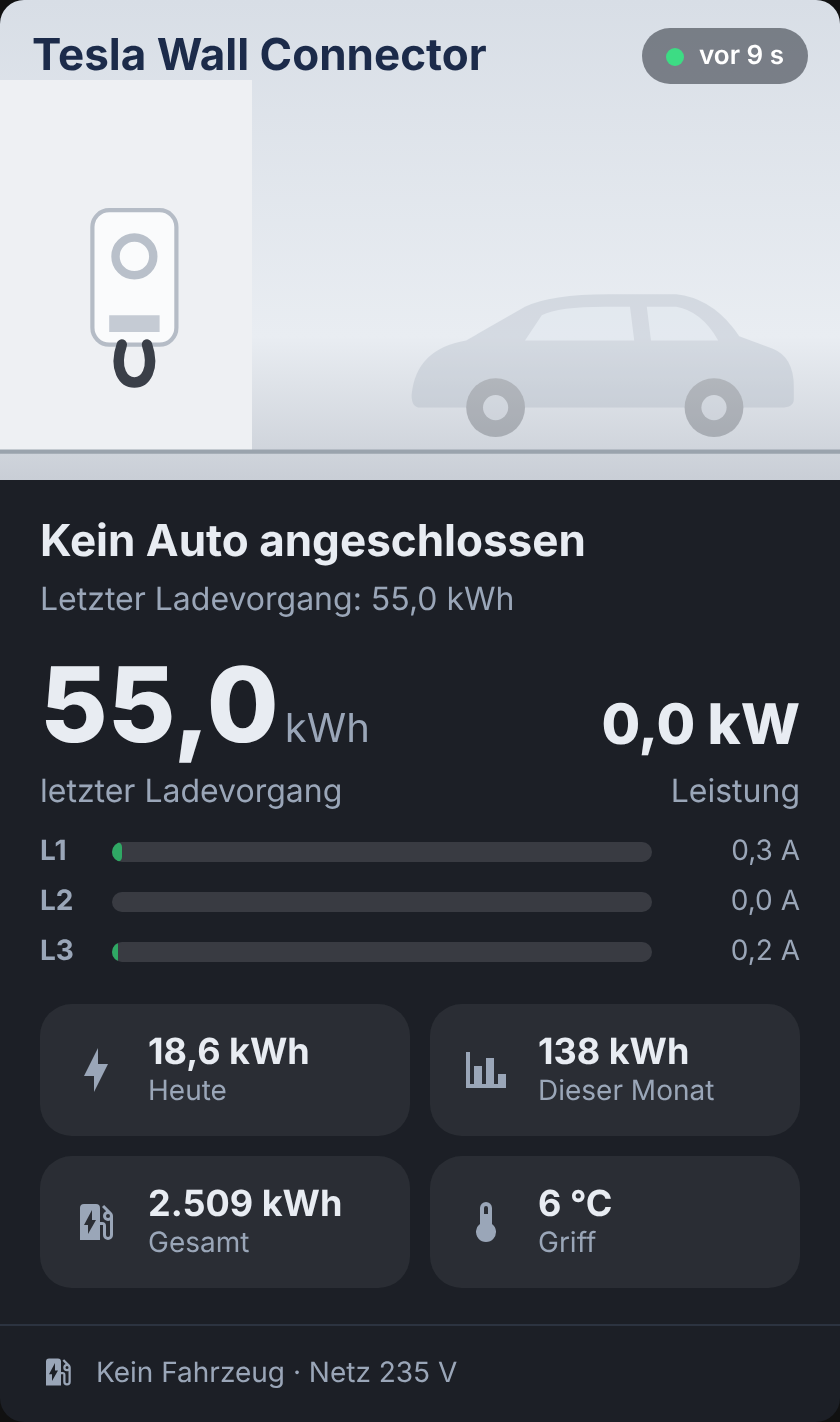
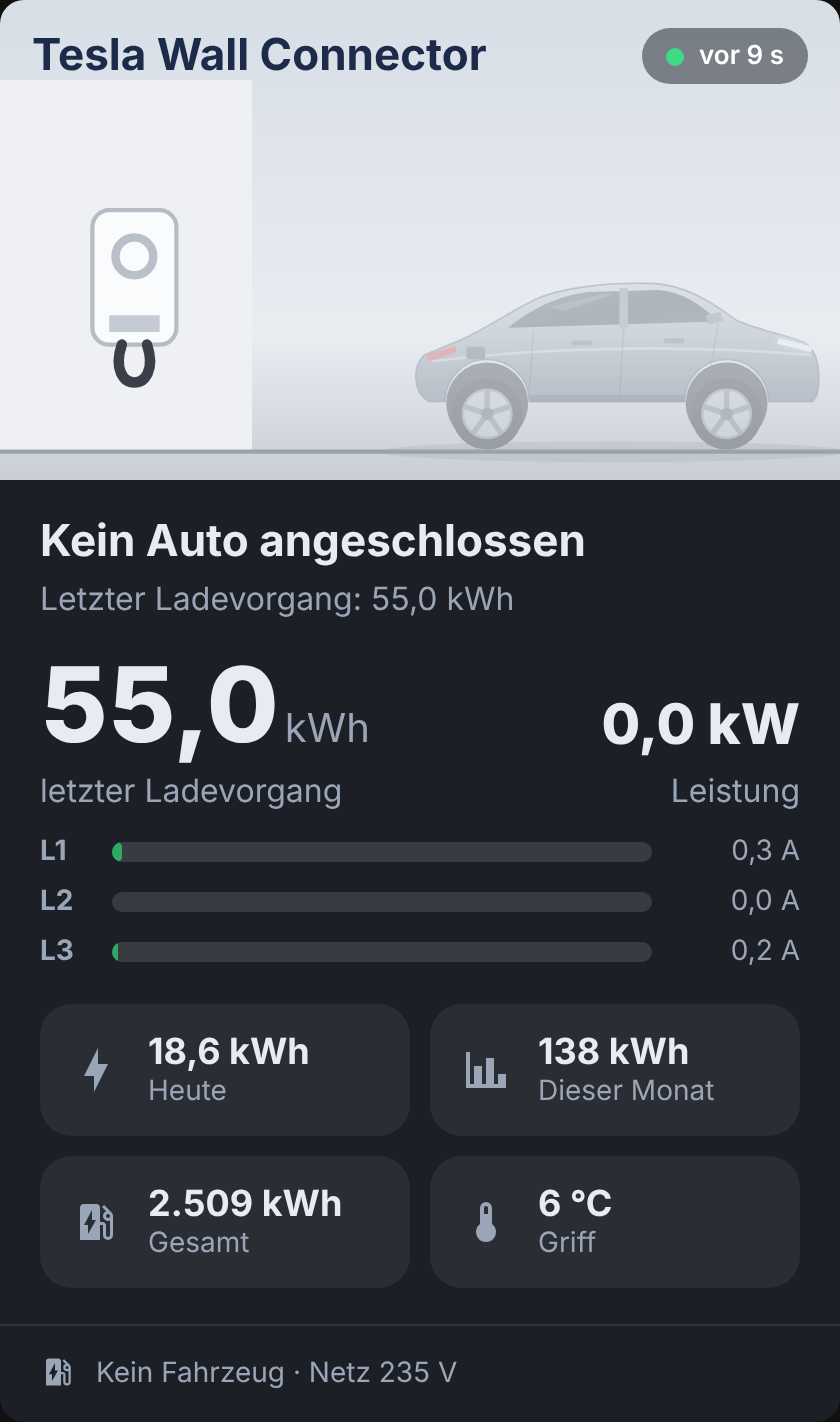
0.2.1: realistischeres Auto in der Ladestations-Karte

Changed region(s): [[0.4952, 0.2166, 0.9905, 0.3404], [0.619, 0.1857, 0.8357, 0.2475]]

diff --git a/dist/ha-cards.js b/dist/ha-cards.js
@@ -13,7 +13,7 @@
  * MIT-Lizenz, Nutzung auf eigene Verantwortung.
  */
 
-const HC_VERSION = "0.2.0";
+const HC_VERSION = "0.2.1";
 
 // Material-Design-Icons (Apache 2.0, Pictogrammers) als Inline-SVG
 const HC_ICONS = {
@@ -975,19 +975,49 @@ class HcWallboxCard extends HcBaseCard {
           <circle class="ring ${led}" cx="64" cy="84" r="9"/>
           <path class="holster" d="M52 112 h24 v8 h-24z"/>
           ${connected ? `
-            <path class="cable" d="M64 126 C 64 165, 150 172, 214 140"/>
-            <path class="flow ${charging ? "on" : ""}" d="M64 126 C 64 165, 150 172, 214 140" style="--c:#3ddc84"/>` : `
+            <path class="cable" d="M64 126 C 64 170, 170 178, 226 131"/>
+            <path class="flow ${charging ? "on" : ""}" d="M64 126 C 64 170, 170 178, 226 131" style="--c:#3ddc84"/>` : `
             <path class="cable" d="M58 126 C 50 150, 78 150, 70 126"/>`}
-          <g class="car ${connected ? "" : "away"}">
-            <path class="body" d="M196 150 Q198 128 222 124 L250 108 Q262 102 290 102 L322 102 Q340 104 352 122 L368 128 Q378 132 378 146 L378 152 Q378 156 372 156 L200 156 Q196 156 196 150Z"/>
-            <path class="glass" d="M258 112 Q266 108 288 108 L300 108 L302 124 L250 124Z M308 108 L322 108 Q334 110 342 124 L310 124Z"/>
-            <circle class="wheel" cx="236" cy="156" r="14"/><circle class="hub" cx="236" cy="156" r="6"/>
-            <circle class="wheel" cx="340" cy="156" r="14"/><circle class="hub" cx="340" cy="156" r="6"/>
-            ${charging ? `<path class="bolt" d="M286 132 l-8 12 h7 l-3 10 10 -14 h-7 l3 -8z"/>` : ""}
-          </g>
+          ${this._car(connected, charging)}
           <line class="ground" x1="0" y1="177" x2="400" y2="177"/>
         </svg>
       </div>`;
+  }
+
+  // Eigene, neutrale Elektro-Limousine mit Fließheck (Seitenansicht, Front rechts)
+  _car(connected, charging) {
+    const wheel = (cx) => {
+      const spokes = [0, 72, 144, 216, 288].map((a) =>
+        `<line class="spoke" x1="${cx}" y1="159" x2="${cx}" y2="148.5" transform="rotate(${a} ${cx} 159)"/>`).join("");
+      return `<circle class="tire" cx="${cx}" cy="159" r="17"/><circle class="rim" cx="${cx}" cy="159" r="11.5"/>${spokes}<circle class="hubcap" cx="${cx}" cy="159" r="3"/>`;
+    };
+    return `
+      <g class="car ${connected ? "" : "away"}">
+        <defs>
+          <linearGradient id="hcCarBody" x1="0" y1="0" x2="0" y2="1">
+            <stop offset="0" stop-color="#c3ccd7"/><stop offset=".5" stop-color="#8f9aa8"/><stop offset="1" stop-color="#6b7684"/>
+          </linearGradient>
+          <linearGradient id="hcCarGlass" x1="0" y1="0" x2="1" y2="1">
+            <stop offset="0" stop-color="#4a5868"/><stop offset=".55" stop-color="#2c3643"/><stop offset="1" stop-color="#3b4756"/>
+          </linearGradient>
+        </defs>
+        <ellipse class="shadow" cx="292" cy="177" rx="112" ry="5"/>
+        <circle class="well" cx="232" cy="154" r="19.5"/><circle class="well" cx="346" cy="154" r="19.5"/>
+        <path class="body" d="M204 153 C197 149 196 137 202 131 L214 126 C226 122 238 113 254 105 C266 99 290 96 312 97 C326 98 338 105 350 114 C360 119 374 121 383 125 C390 129 391 141 389 150 L387 153 L366 153 A20 20 0 0 0 326 153 L252 153 A20 20 0 0 0 212 153 Z"/>
+        <path class="glass" d="M242 118 C252 110 264 103 280 101 L314 100 C325 101 334 107 342 115 Z"/>
+        <path class="reflect" d="M262 108 L286 102 L292 102 L268 110 Z"/>
+        <line class="pillar" x1="297" y1="99" x2="297" y2="118"/>
+        <path class="shoulder" d="M206 134 C260 127 330 126 386 131"/>
+        <path class="cut" d="M297 118 L295 150 M342 116 L337 146 M254 120 L252 148"/>
+        <rect class="handle" x="272" y="124" width="10" height="2.4" rx="1.2"/><rect class="handle" x="316" y="123" width="10" height="2.4" rx="1.2"/>
+        <path class="mirror" d="M336 112 l7 -1.5 l1.5 4.5 l-7 1.5z"/>
+        <path class="headlight" d="M371 123 L387 127 L386 129.5 L370 125.5 Z"/>
+        <path class="taillight" d="M203 131 L217 126.5 L217 129.5 L204 134 Z"/>
+        <path class="skirt" d="M252 150 L326 150 L326 153.5 L252 153.5 Z"/>
+        <rect class="port ${connected ? "on" : ""}" x="222" y="127" width="9" height="6" rx="1.5"/>
+        ${wheel(232)}${wheel(346)}
+        ${charging ? `<path class="bolt" d="M232 104 l-7 10 h6 l-3 9 9 -12 h-6 l3 -7z"/>` : ""}
+      </g>`;
   }
 
   _styles() {
@@ -999,9 +1029,19 @@ class HcWallboxCard extends HcBaseCard {
       @keyframes hc-pulse { 50% { opacity: .35; } }
       .scene .holster { fill: #c5cbd4; }
       .scene .cable { fill: none; stroke: #3a3f48; stroke-width: 5; stroke-linecap: round; }
-      .scene .car .body { fill: #9aa5b4; } .scene .car .glass { fill: #dfe8f2; opacity: .9; }
-      .scene .car .wheel { fill: #2b2f36; } .scene .car .hub { fill: #b9c0ca; }
-      .scene .car.away { opacity: .25; } .scene .car .bolt { fill: #3ddc84; }
+      .scene .car .body { fill: url(#hcCarBody); stroke: #5f6a78; stroke-width: .8; }
+      .scene .car .glass { fill: url(#hcCarGlass); } .scene .car .reflect { fill: rgba(255,255,255,.18); }
+      .scene .car .pillar { stroke: #7c8796; stroke-width: 4; }
+      .scene .car .shoulder { fill: none; stroke: rgba(255,255,255,.45); stroke-width: 1.2; }
+      .scene .car .cut { fill: none; stroke: rgba(30,40,55,.28); stroke-width: .9; }
+      .scene .car .handle { fill: #5f6a78; } .scene .car .mirror { fill: #6f7a88; }
+      .scene .car .headlight { fill: #eef6ff; filter: drop-shadow(0 0 2px rgba(200,230,255,.9)); }
+      .scene .car .taillight { fill: #d63b3b; } .scene .car .skirt { fill: rgba(20,25,32,.35); }
+      .scene .car .port { fill: #4b5563; } .scene .car .port.on { fill: #2b2f36; }
+      .scene .car .tire { fill: #1d2127; } .scene .car .rim { fill: #c9cfd7; stroke: #8d96a2; stroke-width: 1.2; }
+      .scene .car .spoke { stroke: #7d8693; stroke-width: 2.6; stroke-linecap: round; } .scene .car .hubcap { fill: #5b636f; }
+      .scene .car .shadow { fill: rgba(0,0,0,.18); } .scene .car .well { fill: #2a2f37; }
+      .scene .car.away { opacity: .3; } .scene .car .bolt { fill: #3ddc84; }
       .scene .ground { stroke: #9aa3ad; }
       .head.ok { color: var(--hc-green); } .head.bad { color: var(--hc-red); }
       .phases { display: grid; gap: 8px; margin: 8px 0 4px; }
